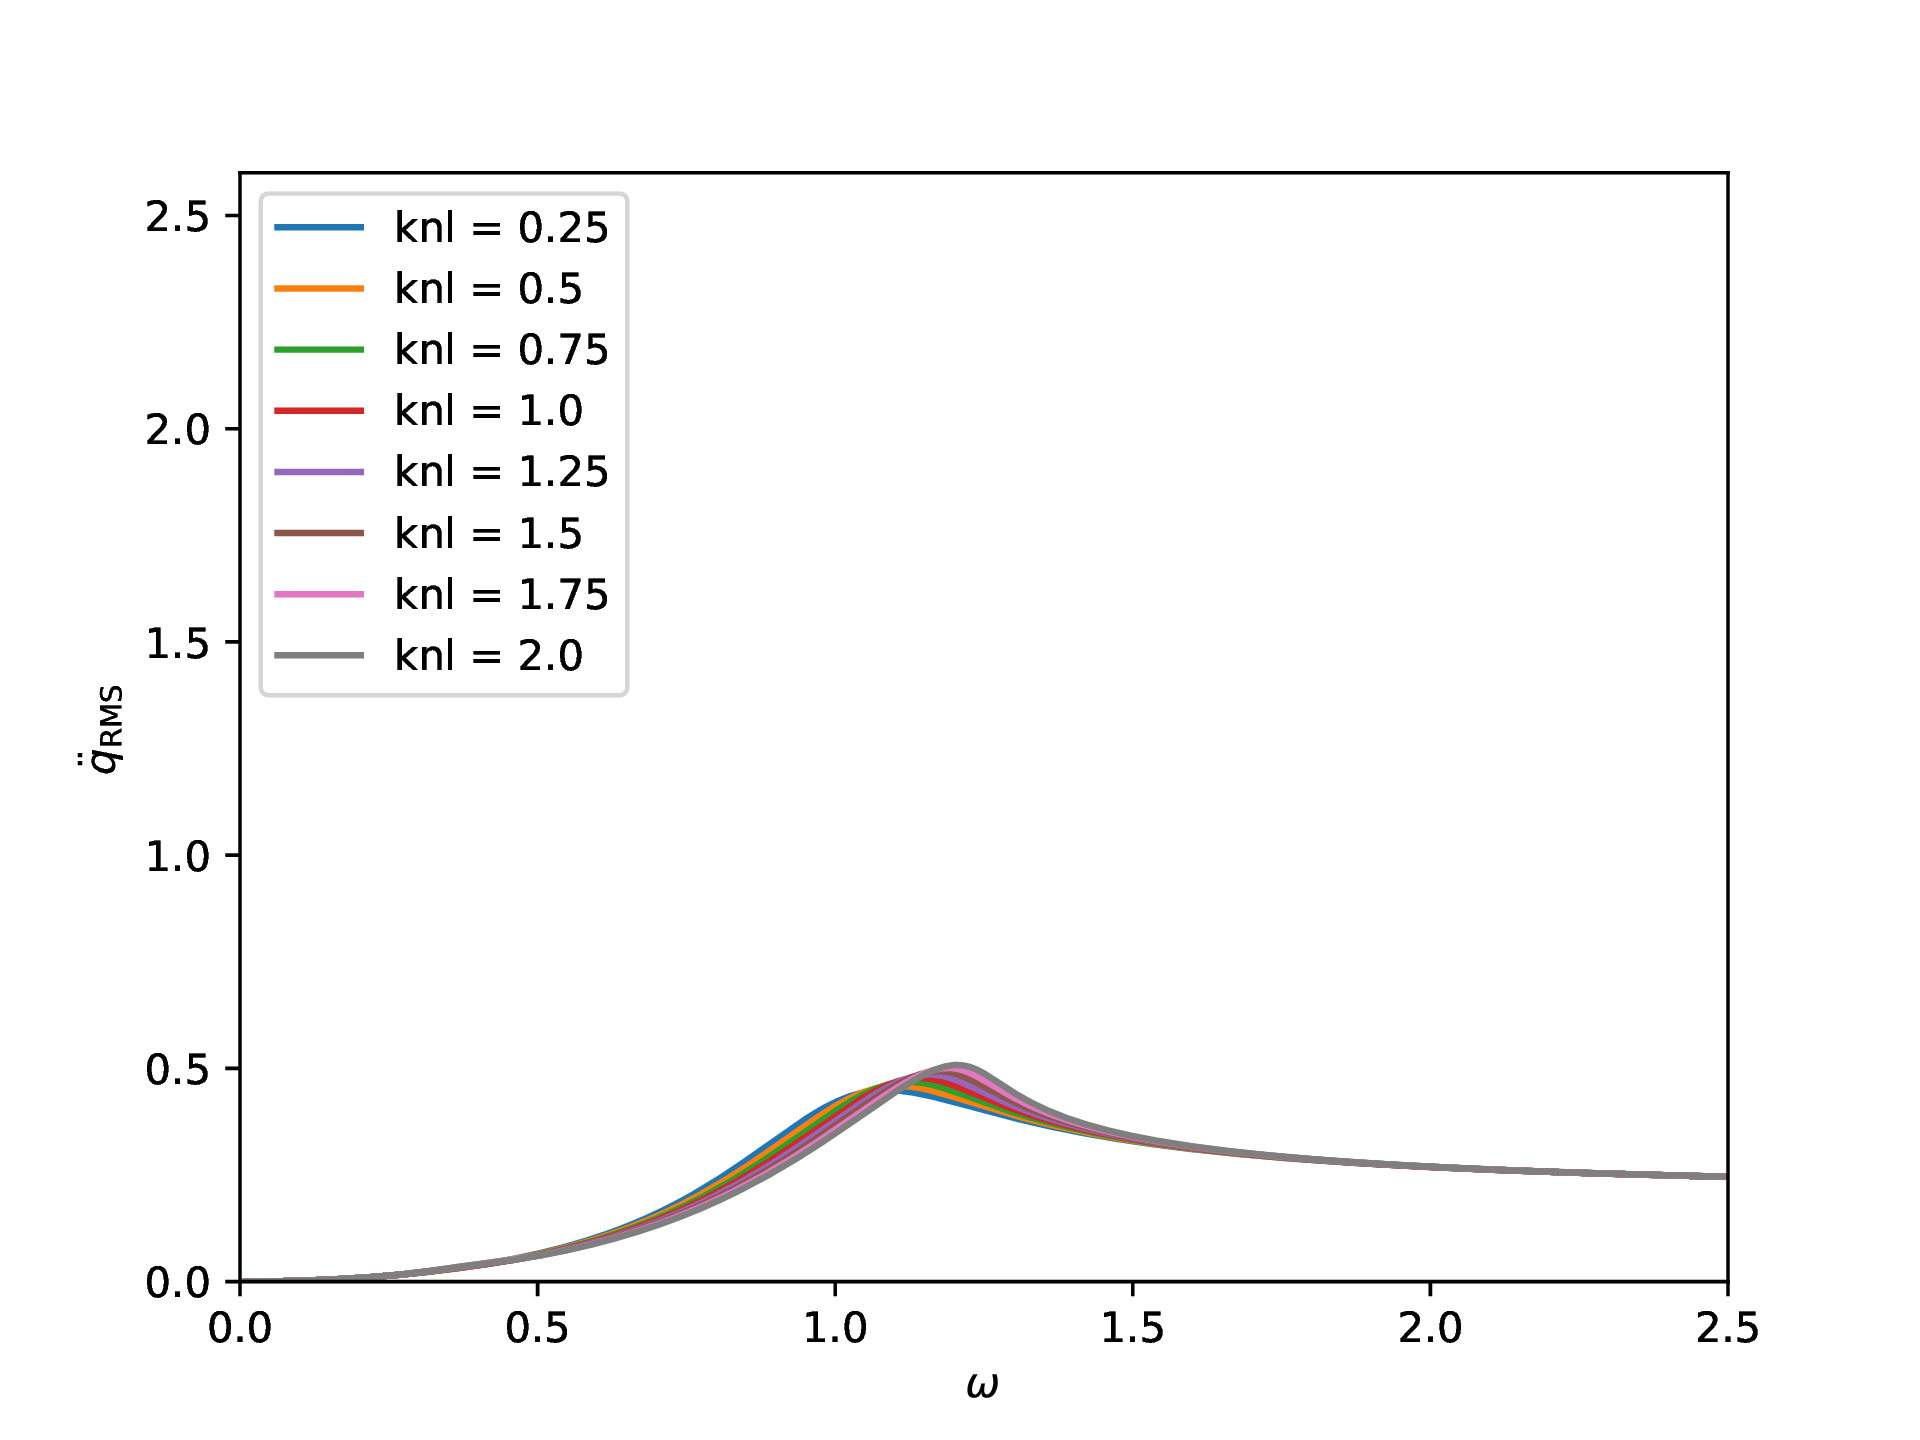
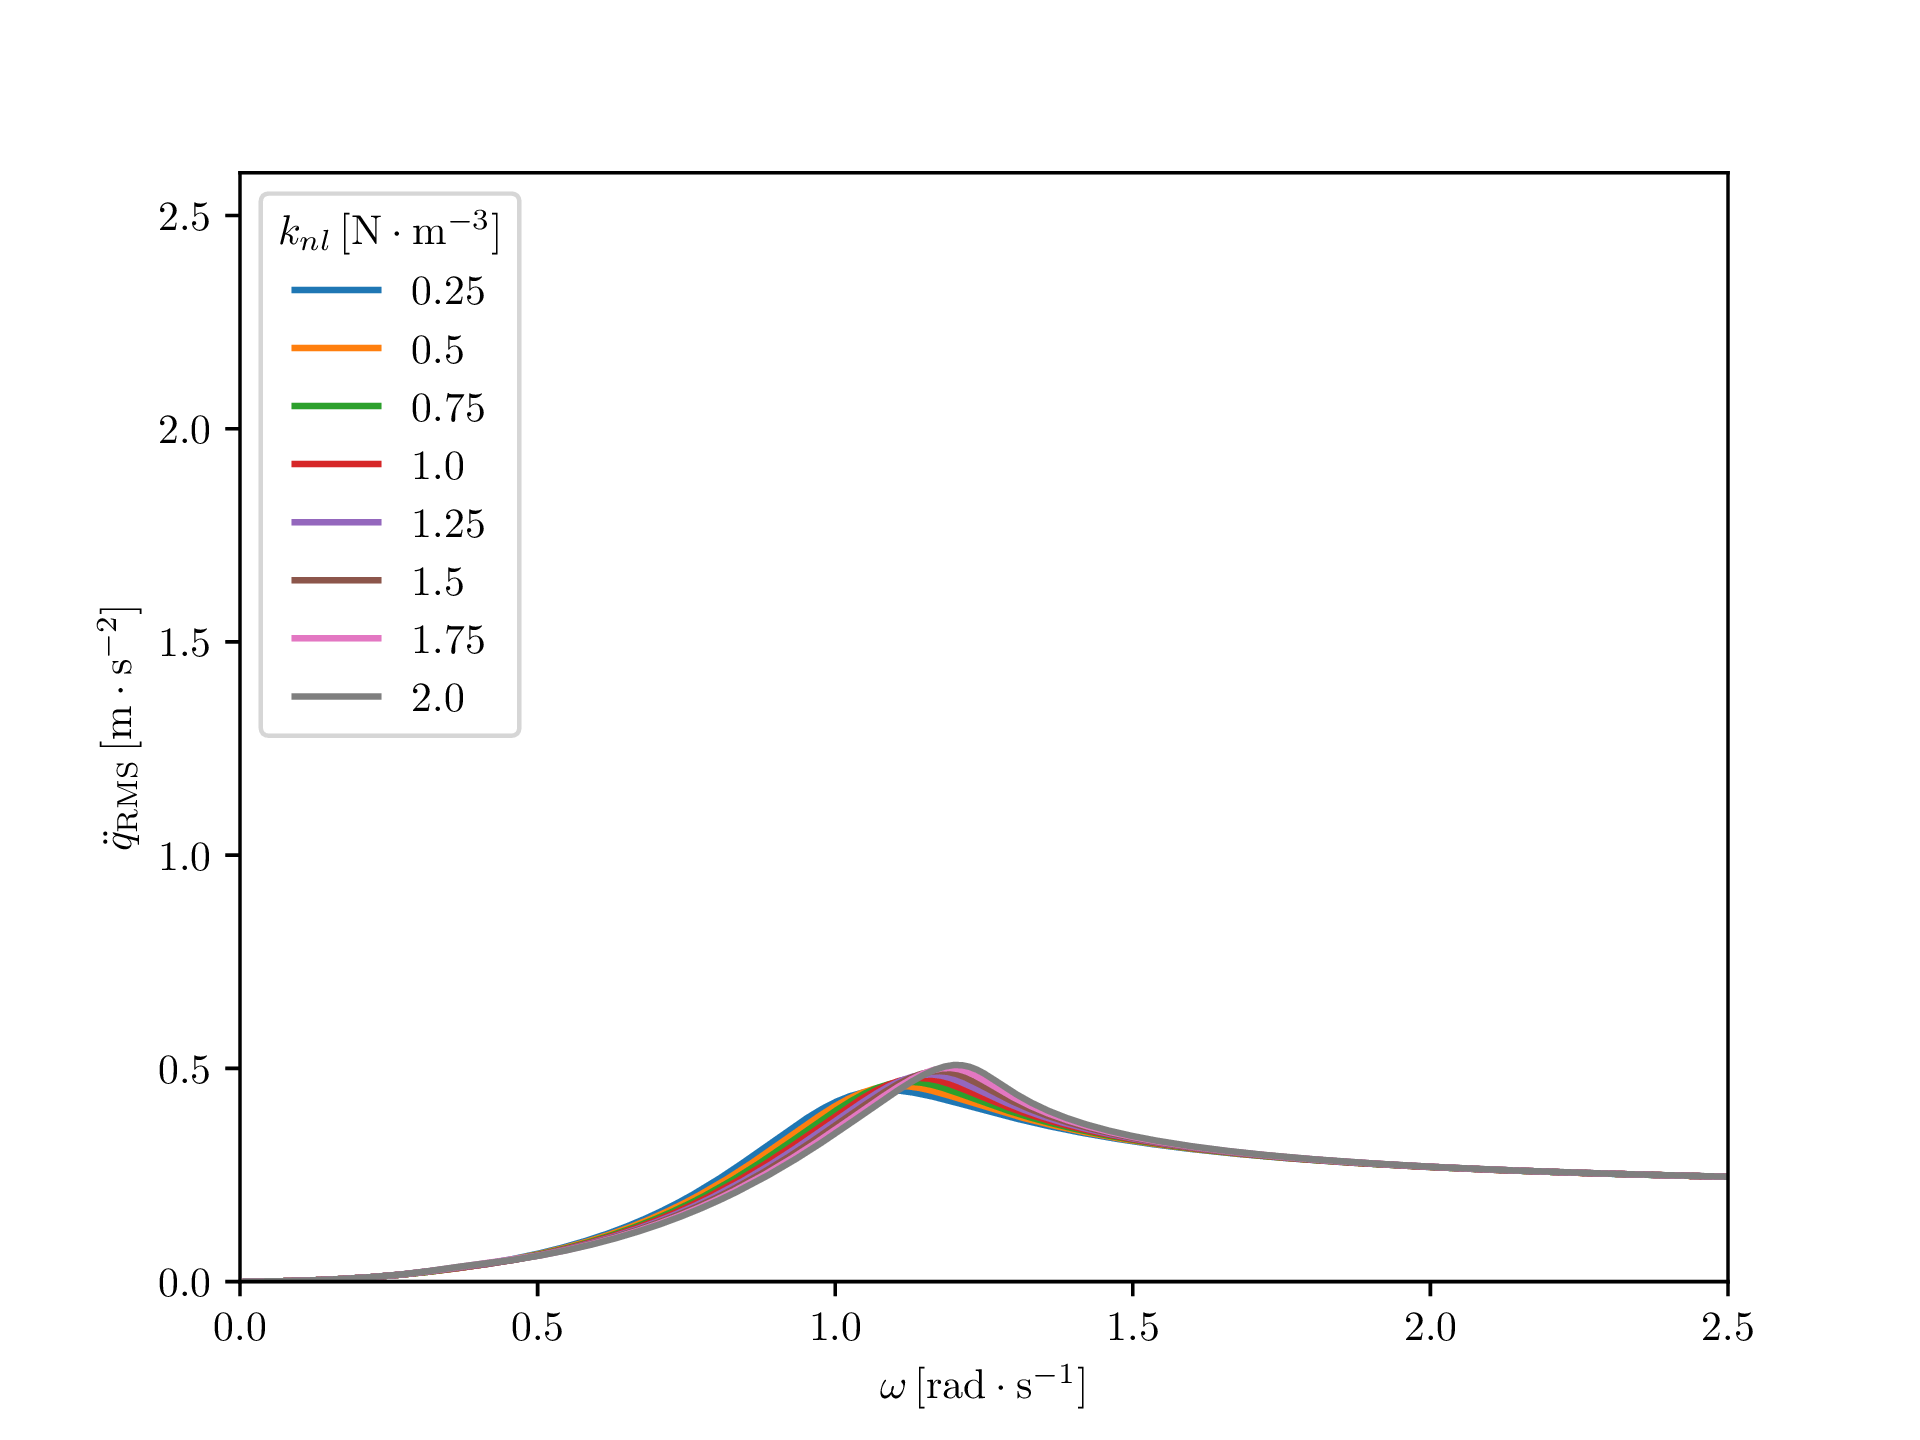
start updateing pictures and animations

diff --git a/OptiExp.py b/OptiExp.py
@@ -161,8 +161,8 @@ def ExpOpti(ns, nb=0):
     )
     ax1.set_xlim(0.1, 1)
     ax1.set_ylim(0.1, 2)
-    ax1.set_xlabel(r'$\xi [\mathrm{kg}/\mathrm{s}]$')
-    ax1.set_ylabel(r'$k_{nl} [\mathrm{N}/\mathrm{m}^{-3}]$')
+    ax1.set_xlabel(r'$\xi\, [\mathrm{kg}/\mathrm{s}]$')
+    ax1.set_ylabel(r'$k_{nl}\, [\mathrm{N}/\mathrm{m}^{-3}]$')
     ax1.set_title(r'Objective Function')
     ax1.plot(  #Initial Samples
         Xs[:, 0],
@@ -199,8 +199,8 @@ def ExpOpti(ns, nb=0):
         markersize=8,)
     ax2.set_xlim(0.1, 1)
     ax2.set_ylim(0.1, 2)
-    ax2.set_xlabel(r'$\xi [\mathrm{kg}/\mathrm{s}]$')
-    ax2.set_ylabel(r'$k_{nl} [\mathrm{N}/\mathrm{m}^{-3}]$')
+    ax2.set_xlabel(r'$\xi\, [\mathrm{kg}/\mathrm{s}]$')
+    ax2.set_ylabel(r'$k_{nl}\, [\mathrm{N}/\mathrm{m}^{-3}]$')
     ax2.set_title(r'Expected Improvement')
     plt.savefig(os.path.join(workdir, "ContourCEI_" + f"{it:02}" + ".pdf"))
     plt.close()
@@ -213,8 +213,8 @@ def ExpOpti(ns, nb=0):
     ax1.set_xlim(0.1, 1)
     ax1.set_ylim(0.1, 2)
     ax1.set_zlim(0.,4.5)
-    ax1.set_xlabel(r'$\xi [\mathrm{kg}/\mathrm{s}]$')
-    ax1.set_ylabel(r'$k_{nl} [\mathrm{N}/\mathrm{m}^{-3}]$')
+    ax1.set_xlabel(r'$\xi\, [\mathrm{kg}/\mathrm{s}]$')
+    ax1.set_ylabel(r'$k_{nl}\, [\mathrm{N}/\mathrm{m}^{-3}]$')
     ax1.set_zlabel(r'$F_{\mathrm{obj}}(\xi,k_{nl})$')
     ax1.set_title(r'Objective Function')
     ax1.plot(  #Initial Samples
@@ -257,8 +257,8 @@ def ExpOpti(ns, nb=0):
         markersize=8,)
     ax2.set_xlim(0.1, 1)
     ax2.set_ylim(0.1, 2)
-    ax2.set_xlabel(r'$\xi [\mathrm{kg}/\mathrm{s}]$')
-    ax2.set_ylabel(r'$k_{nl} [\mathrm{N}/\mathrm{m}^{-3}]$')
+    ax2.set_xlabel(r'$\xi\, [\mathrm{kg}/\mathrm{s}]$')
+    ax2.set_ylabel(r'$k_{nl}\, [\mathrm{N}/\mathrm{m}^{-3}]$')
     ax2.set_zlabel(r'$EI(\xi,k_{nl})$')
     ax2.set_title(r'Expected Improvement')
     plt.savefig(os.path.join(workdir, "SurfaceCEI_" + f"{it:02}" + ".pdf"))
@@ -386,8 +386,8 @@ def ExpOpti(ns, nb=0):
         )
         ax1.set_xlim(0.1, 1)
         ax1.set_ylim(0.1, 2)
-        ax1.set_xlabel(r'$\xi [\mathrm{kg}/\mathrm{s}]$')
-        ax1.set_ylabel(r'$k_{nl} [\mathrm{N}/\mathrm{m}^{-3}]$')
+        ax1.set_xlabel(r'$\xi\, [\mathrm{kg}/\mathrm{s}]$')
+        ax1.set_ylabel(r'$k_{nl}\, [\mathrm{N}/\mathrm{m}^{-3}]$')
         ax1.set_title(r'Objective Function')
         ax1.plot(  #Initial Samples
             Xs[:, 0],
@@ -442,8 +442,8 @@ def ExpOpti(ns, nb=0):
             markersize=8,)
         ax2.set_xlim(0.1, 1)
         ax2.set_ylim(0.1, 2)
-        ax2.set_xlabel(r'$\xi [\mathrm{kg}/\mathrm{s}]$')
-        ax2.set_ylabel(r'$k_{nl} [\mathrm{N}/\mathrm{m}^{-3}]$')
+        ax2.set_xlabel(r'$\xi\, [\mathrm{kg}/\mathrm{s}]$')
+        ax2.set_ylabel(r'$k_{nl}\, [\mathrm{N}/\mathrm{m}^{-3}]$')
         ax2.set_title(r'Expected Improvement')
         plt.savefig(os.path.join(workdir, "ContourCEI_" + f"{it:02}" + ".pdf"))
         plt.close()
@@ -457,8 +457,8 @@ def ExpOpti(ns, nb=0):
         ax1.set_xlim(0.1, 1)
         ax1.set_ylim(0.1, 2)
         ax1.set_zlim(0.,4.5)
-        ax1.set_xlabel(r'$\xi [\mathrm{kg}/\mathrm{s}]$')
-        ax1.set_xlabel("$k_{nl} [\mathrm{N}/\mathrm{m}^{-3}]$")
+        ax1.set_xlabel(r'$\xi\, [\mathrm{kg}/\mathrm{s}]$')
+        ax1.set_ylabel(r'$k_{nl}\, [\mathrm{N}/\mathrm{m}^{-3}]$')
         ax1.set_zlabel(r'$F_{\mathrm{obj}}(\xi,k_{nl})$')
         ax1.set_title(r'Objective Function')
         ax1.plot(  #Initial Samples
@@ -523,8 +523,8 @@ def ExpOpti(ns, nb=0):
             markersize=8,)
         ax2.set_xlim(0.1, 1)
         ax2.set_ylim(0.1, 2)
-        ax2.set_xlabel(r'$\xi [\mathrm{kg}/\mathrm{s}]$')
-        ax2.set_xlabel("$k_{nl} [\mathrm{N}/\mathrm{m}^{-3}]$")
+        ax2.set_xlabel(r'$\xi\, [\mathrm{kg}/\mathrm{s}]$')
+        ax2.set_ylabel(r'$k_{nl}\, [\mathrm{N}/\mathrm{m}^{-3}]$')
         ax2.set_zlabel(r'$EI(\xi,k_{nl})$')
         ax2.set_title(r'Expected Improvement')
         plt.savefig(os.path.join(workdir, "SurfaceCEI_" + f"{it:02}" + ".pdf"))

diff --git a/various/build_pic_Duffing.py b/various/build_pic_Duffing.py
@@ -47,8 +47,8 @@ plt.ylim(Drms_np.min(), Drms_np.max())
 for i in range(len(knl_list)):
     plt.plot(f_list[i], Drms_list[i])
 
-plt.ylabel(r"$q_{\rm RMS} [\mathrm{m}]$")
-plt.xlabel("$\omega [\mathrm{rad}\cdot\mathrm{s}^{-1}]$")
+plt.ylabel(r"$q_{\rm RMS}\, [\mathrm{m}]$")
+plt.xlabel("$\omega\, [\mathrm{rad}\cdot\mathrm{s}^{-1}]$")
 
 
 fig = plt.figure()  # initialise la figure
@@ -58,8 +58,8 @@ plt.ylim(Arms_np.min(), Arms_np.max())
 for i in range(len(knl_list)):
     plt.plot(f_list[i], Arms_list[i])
 
-plt.ylabel(r"$\ddot{q}_{\rm RMS} [\mathrm{m}\cdot\mathrm{s}^{-2}]$")
-plt.xlabel("$\omega [\mathrm{rad}\cdot\mathrm{s}^{-1}]$")
+plt.ylabel(r"$\ddot{q}_{\rm RMS}\, [\mathrm{m}\cdot\mathrm{s}^{-2}]$")
+plt.xlabel("$\omega\, [\mathrm{rad}\cdot\mathrm{s}^{-1}]$")
 
 
 for i in range(len(knl_list)):
@@ -67,10 +67,10 @@ for i in range(len(knl_list)):
     plt.xlim(f_np.min(), f_np.max())
     plt.ylim(Drms_np.min(), Drms_np.max())
     plt.plot(f_list[i], Drms_list[i])
-    plt.ylabel(r"$q_{\rm RMS} [\mathrm{m}]$")
-    plt.xlabel("$\omega [\mathrm{rad}\cdot\mathrm{s}^{-1}]$")
+    plt.ylabel(r"$q_{\rm RMS}\, [\mathrm{m}]$")
+    plt.xlabel("$\omega\, [\mathrm{rad}\cdot\mathrm{s}^{-1}]$")
     plt.title(
-        "$\displaystyle k_{{nl}}={} \mathrm{{N}}/\mathrm{{m}}^{{-3}}$".format(
+        "$\displaystyle k_{{nl}}={}\, \mathrm{{N}}/\mathrm{{m}}^{{-3}}$".format(
             latex_float(knl_list[i])
         )
     )
@@ -85,10 +85,10 @@ for i in range(len(knl_list)):
     plt.xlim(f_np.min(), f_np.max())
     plt.ylim(Arms_np.min(), Arms_np.max())
     plt.plot(f_list[i], Arms_list[i])
-    plt.ylabel(r"$\ddot{q}_{\rm RMS} [\mathrm{m}\cdot\mathrm{s}^{-2}]$")
+    plt.ylabel(r"$\ddot{q}_{\rm RMS}\, [\mathrm{m}\cdot\mathrm{s}^{-2}]$")
     plt.xlabel("$\omega\, [\mathrm{rad}\cdot\mathrm{s}^{-1}]$")
     plt.title(
-        "$\displaystyle k_{{nl}}={} \mathrm{{N}}/\mathrm{{m}}^{{-3}}$".format(
+        "$\displaystyle k_{{nl}}={}\, \mathrm{{N}}/\mathrm{{m}}^{{-3}}$".format(
             latex_float(knl_list[i])
         )
     )

diff --git a/respDuffing.py b/respDuffing.py
@@ -12,6 +12,8 @@ import matplotlib.pyplot as plt
 import numpy
 import os
 
+plt.rcParams["text.usetex"] = True
+
 ResName = "ParamDuffing"
 knl_list = numpy.linspace(0.25, 2, 8)
 xi_list = numpy.array([0.15, 0.3, 0.5, 1.0])
@@ -25,18 +27,32 @@ Arms_list = []
 prm_list = []
 
 for xi in xi_list:
-    plt.figure()
+    plt.figure(0)
+    plt.figure(1)
     for knl in knl_list:
+        print("=== xi = {} - knl = {} ===".format(xi, knl))
         w, Drms, Arms = fobj.solveDuffing([xi, knl])
         w_list.append(w)
         Drms_list.append(Drms)
         Arms_list.append(Arms)
         prm_list.append([xi, knl])
-        plt.plot(w, Arms, label=f"knl = {knl}")
-    plt.xlabel(r"$\omega$")
-    plt.ylabel(r"${\ddot q}_{\rm RMS}$")
+        plt.figure(0)
+        plt.plot(w, Drms, label=f"${knl}$")
+        plt.figure(1)
+        plt.plot(w, Arms, label=f"${knl}$")
+    plt.figure(0)
+    plt.xlabel(r"$\omega\,[\mathrm{rad}\cdot\mathrm{s}^{-1}]$")
+    plt.ylabel(r"$q_{\rm RMS}\,[\mathrm{m}]$")
     plt.xlim(0, 2.5)
     plt.ylim(0, 2.6)
-    plt.legend(loc="upper left")
+    plt.legend(loc="upper left",title=f"$k_{{nl}}\,[\mathrm{{N}}\cdot\mathrm{{m}}^{{-3}}]$")
+    plt.savefig(os.path.join(ResName, "Drms_xi{}.pdf".format(int(100 * xi))))
+    plt.close()
+    plt.figure(1)
+    plt.xlabel(r"$\omega\,[\mathrm{rad}\cdot\mathrm{s}^{-1}]$")
+    plt.ylabel(r"${\ddot q}_{\rm RMS}\,[\mathrm{m}\cdot\mathrm{s}^{-2}]$")
+    plt.xlim(0, 2.5)
+    plt.ylim(0, 2.6)
+    plt.legend(loc="upper left",title=f"$k_{{nl}}\,[\mathrm{{N}}\cdot\mathrm{{m}}^{{-3}}]$")
     plt.savefig(os.path.join(ResName, "Arms_xi{}.pdf".format(int(100 * xi))))
     plt.close()
